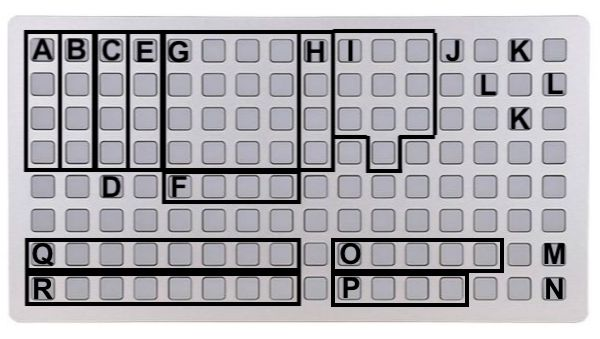
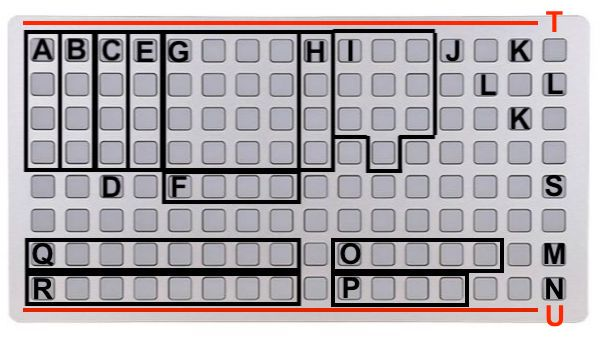
Global vials (#14)
* starting to create global memory vials

* load/save-deepcopy

* local, remove unused vars

* loading saving can be done without returning to normal view

Changed region(s): [[0.03, 0.885, 0.96, 0.9735], [0.03, 0.0295, 0.96, 0.0885], [0.9, 0.5015, 0.96, 0.59]]

diff --git a/README.md b/README.md
@@ -15,18 +15,20 @@ on this page
 - ENC 3 changes value
 
 - KEY 1 takes you to PARAMS
-- Hold KEY 1 to start the sequencer
-- While playing, hold KEY 1 for SEQ ALT
+- hold KEY 1 to start the sequencer
+- khile playing, hold KEY 1 for SEQ ALT
 - SEQ ALT + KEY 2 resets the sequence
 - SEQ ALT + KEY 3 stops the sequence
 
 - KEY 2 changes slot on selected track
 - KEY 2 + KEY 3 mutes the track
 
-- Hold KEY 3 for TRACK ALT
+- hold KEY 2 for TRACK ALT
 - TRACK ALT + KEY 2 rotates track sequence
 - TRACK ALT + ENC 2 changes track division
 - TRACK ALT + ENC 3 changes track probability
+
+- hold KEY 3 + ENC 3 to load pattern
 
 each track is configured to send midi and trigger a sample. please see the PARAMETERS menu for configuration.
 
@@ -68,9 +70,15 @@ using grid greatly expands the performability of vials. it allows for looping, c
     - kill echo
 * **Q** - binary input, tap for 1, tap twice for 0
 * **R** - trim binary sequence at index
+* **S** - hold to access load/save 
+* **T** - load pattern
+* **U** - save pattern
 
 ## saving / loading
-vials saves the sequence data each time the sequencer is stopped. on selecting vials, it automatically loads where you left off. 
+on start vials loads a session of 15 patterns from memory
+within the session patterns can be saved and loaded
+the session is saved to disk when stopped
+note the current pattern must be saved to the session to be recalled.
 
 ## vague ideas for the future
 * grid view for saving/loading patterns / psets
